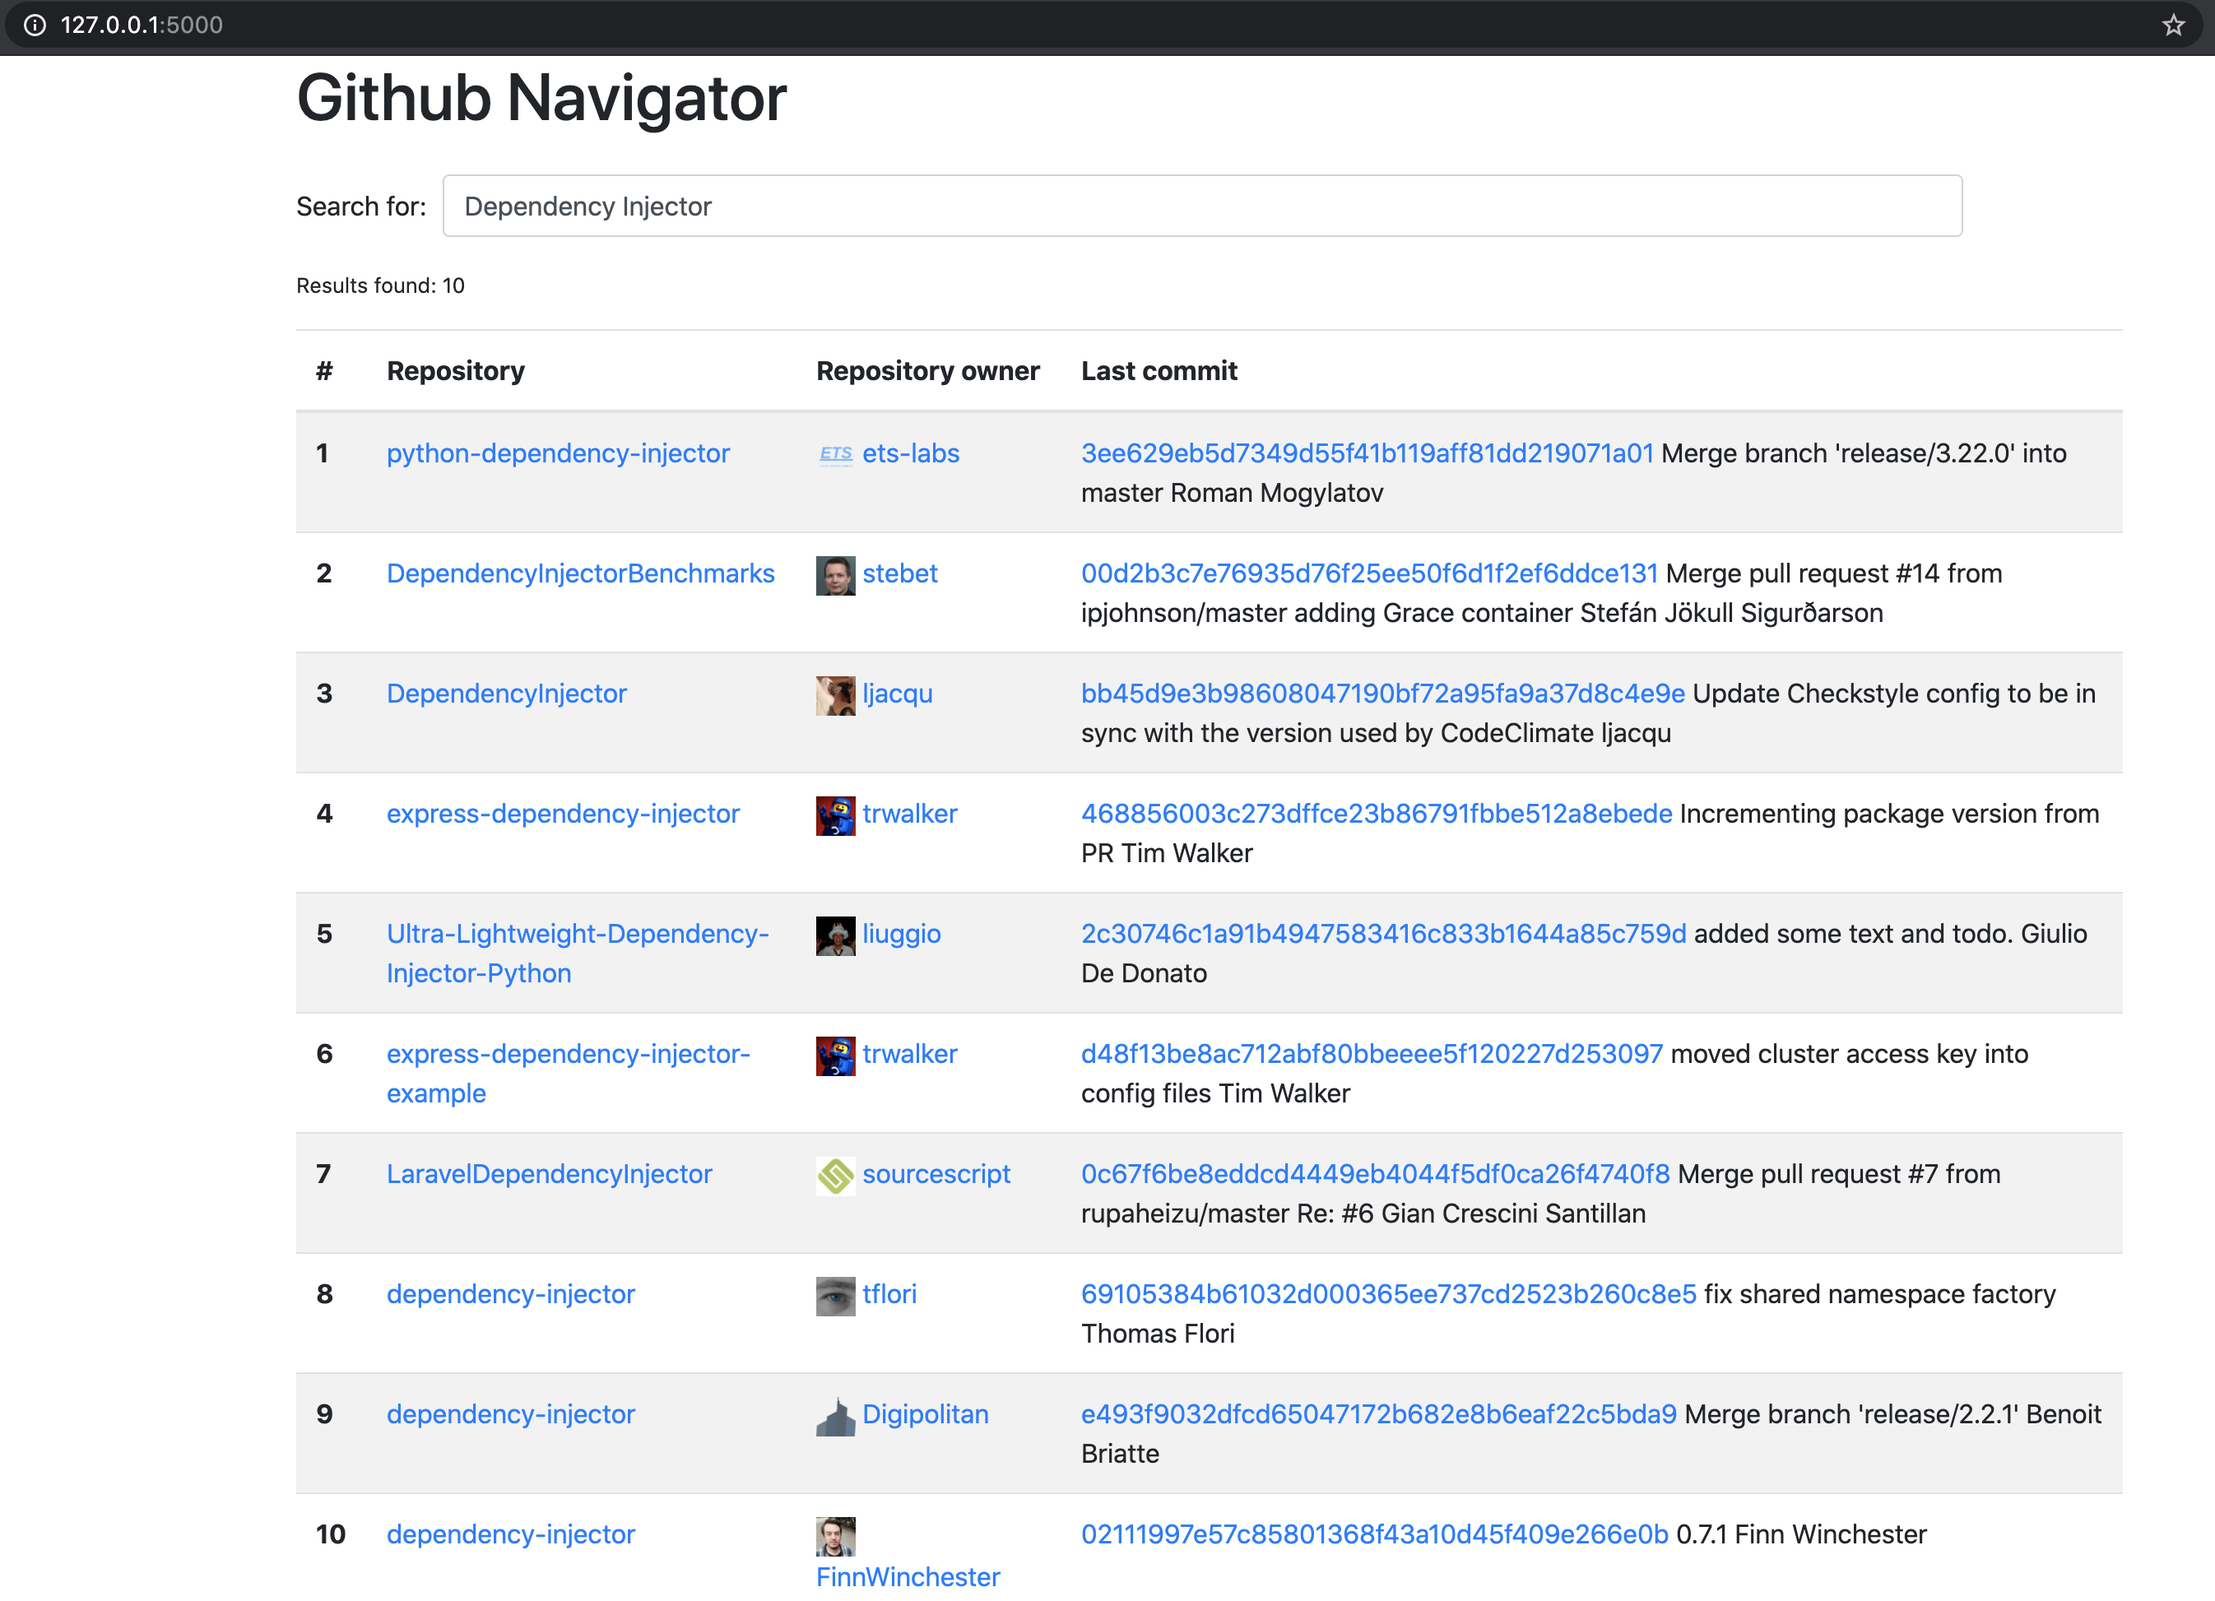
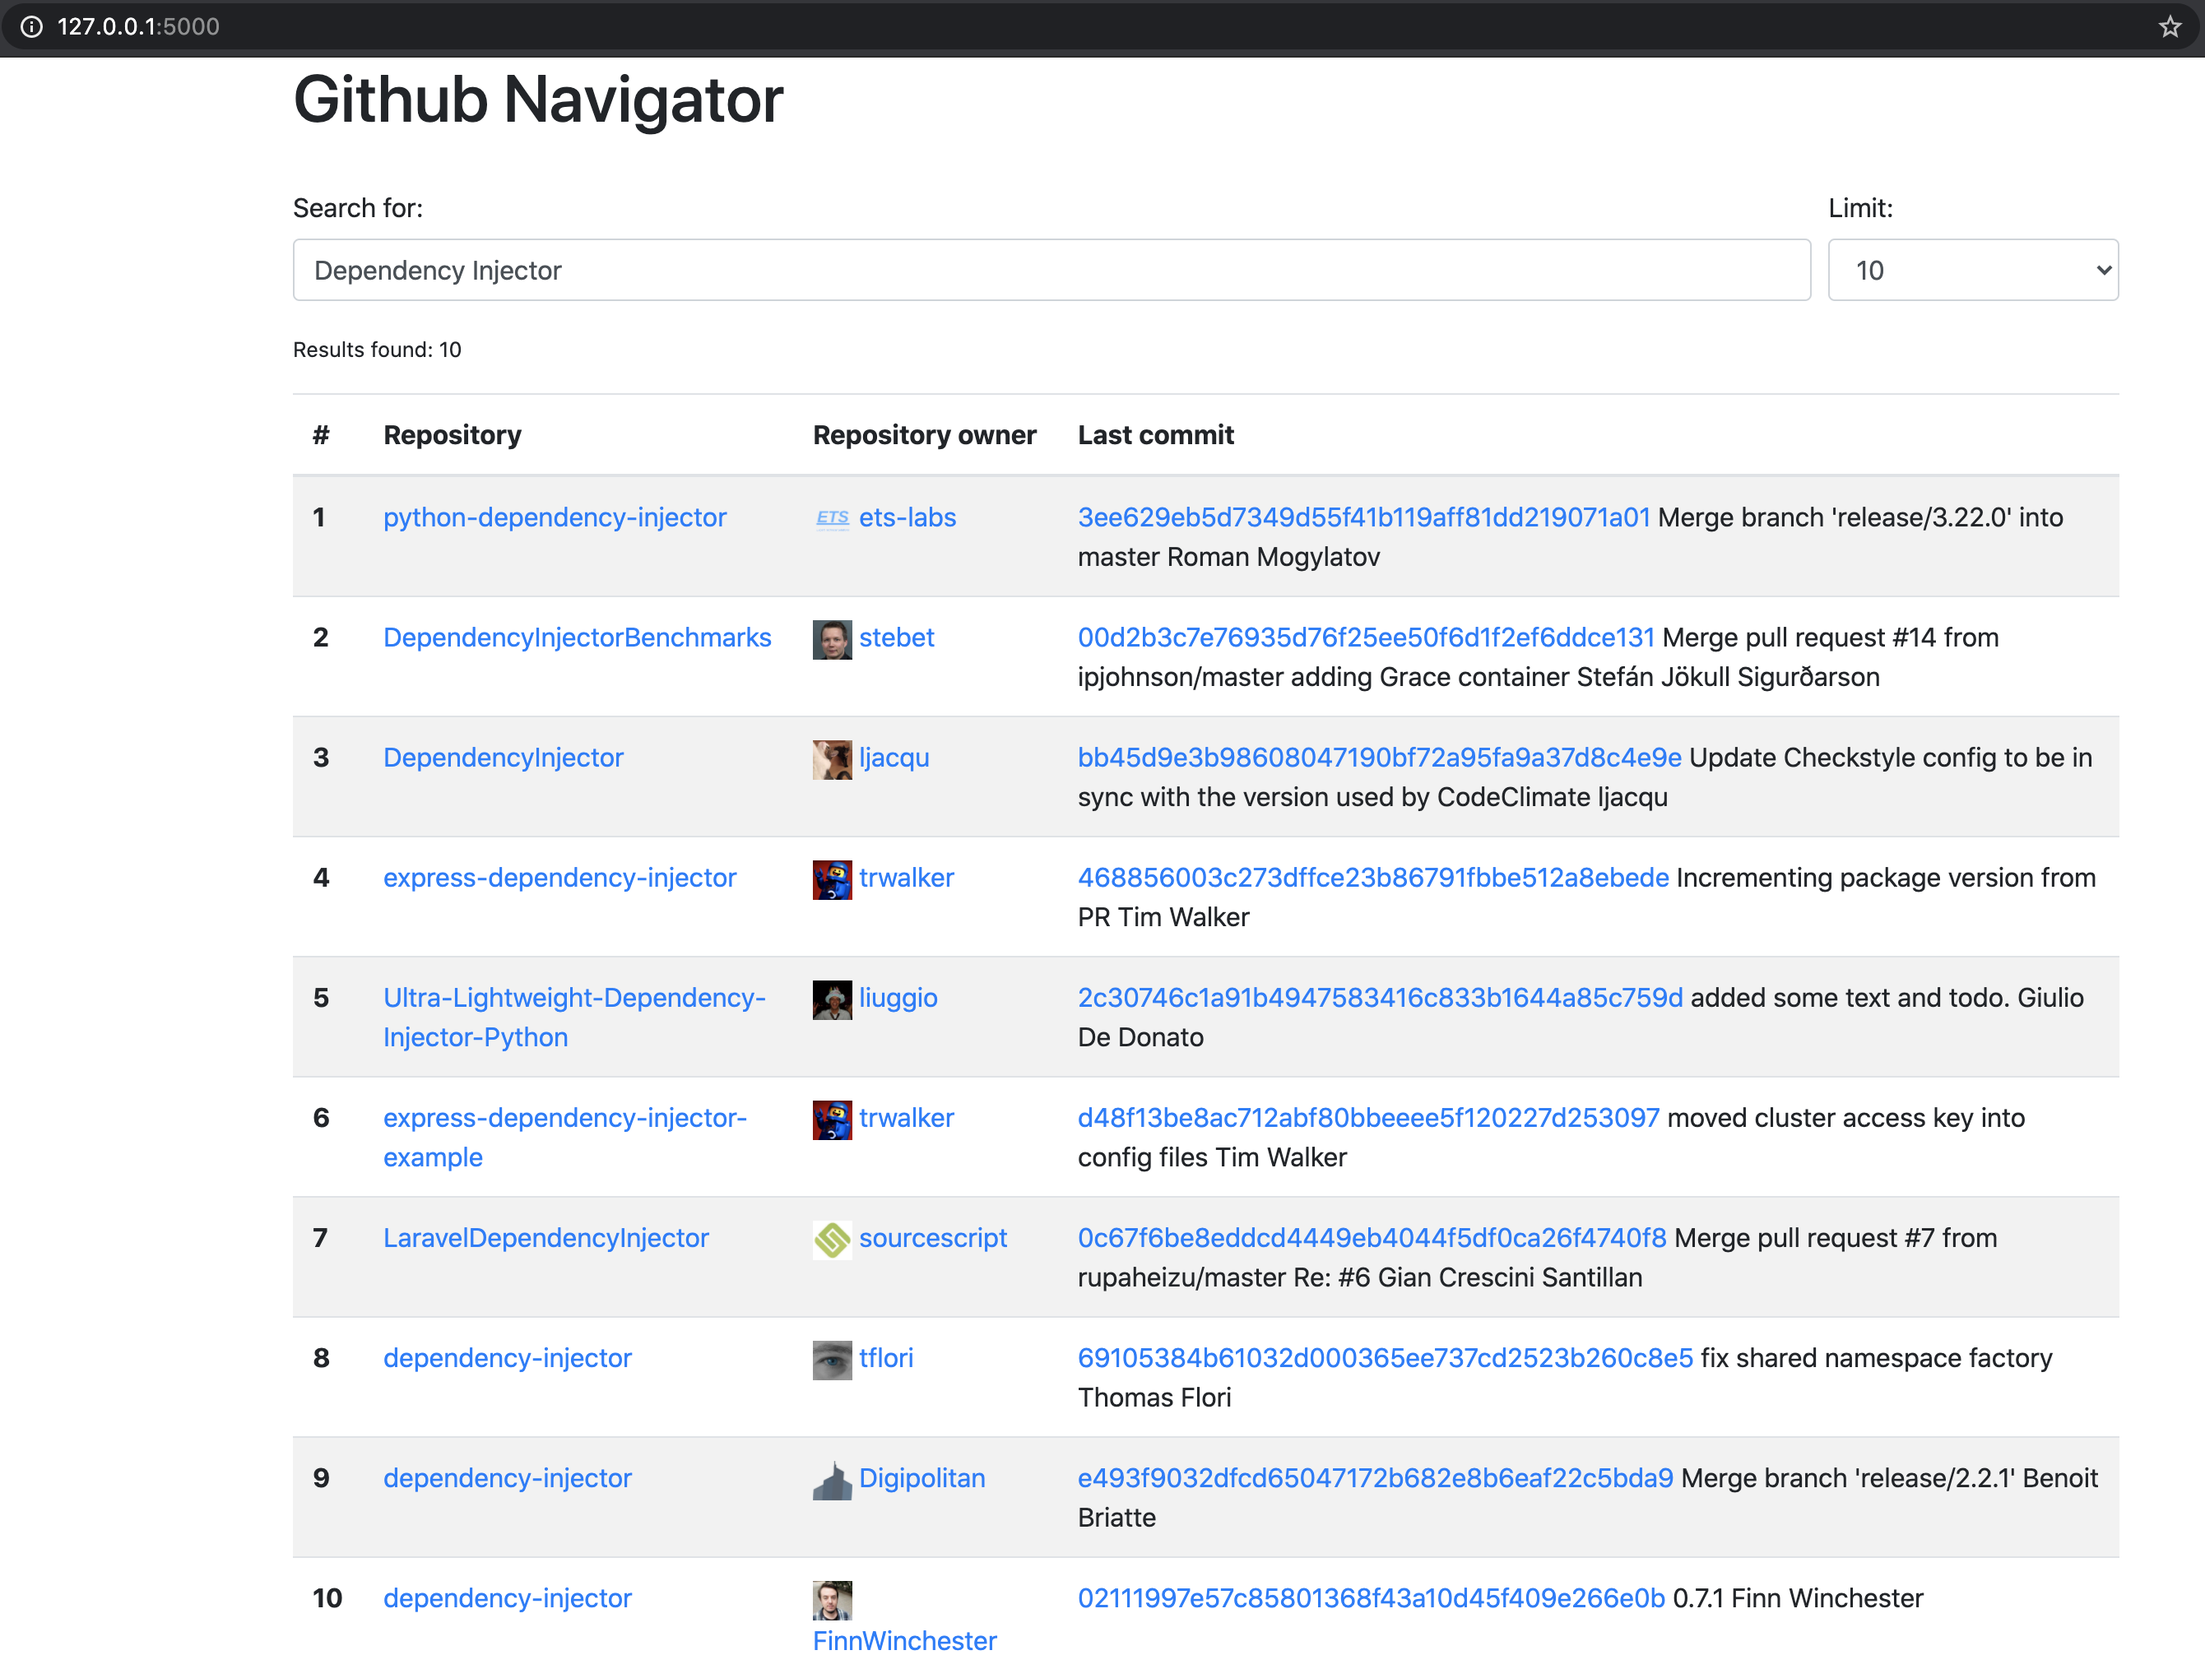
Finish section: Make the search work

diff --git a/docs/tutorials/flask.rst b/docs/tutorials/flask.rst
@@ -20,11 +20,11 @@ Github Navigator.
 
 How does Github Navigator work?
 
-- User opens a web page that asks to provide a search term.
-- User types the search term and hits Enter.
+- User opens a web page that asks to provide a search query.
+- User types the query and hits Enter.
 - Github Navigator takes that and searches through the Github for matching repositories.
 - When search is done Github Navigator returns user a web page with the result.
-- The results page shows all matching repositories and the provided search term.
+- The results page shows all matching repositories and the provided search query.
 - For any matching repository user sees:
     - the repository name
     - the owner of the repository
@@ -335,15 +335,29 @@ Put next into the ``index.html``:
        <h1 class="mb-4">Github Navigator</h1>
 
        <form>
-         <div class="form-group form-row">
-             <label for="search_term" class="col-form-label">Search for:</label>
-             <div class="col-10">
-                 <input class="form-control" type="text" id="search_term"
-                        placeholder="Type something to search on the GitHub"
-                        name="search_term"
-                        value="{{ search_term if search_term }}">
-             </div>
-         </div>
+           <div class="form-group form-row">
+               <div class="col-10">
+                   <label for="search_query" class="col-form-label">
+                       Search for:
+                   </label>
+                   <input class="form-control" type="text" id="search_query"
+                          placeholder="Type something to search on the GitHub"
+                          name="query"
+                          value="{{ query if query }}">
+               </div>
+               <div class="col">
+                   <label for="search_limit" class="col-form-label">
+                       Limit:
+                   </label>
+                   <select class="form-control" id="search_limit" name="limit">
+                       {% for value in [5, 10, 20] %}
+                       <option {% if value == limit %}selected{% endif %}>
+                           {{ value }}
+                       </option>
+                       {% endfor %}
+                   </select>
+               </div>
+           </div>
        </form>
 
        <p><small>Results found: {{ repositories|length }}</small></p>
@@ -395,12 +409,15 @@ Edit ``views.py``:
 
 
    def index():
-       search_term = request.args.get('search_term', 'Dependency Injector')
+       query = request.args.get('query', 'Dependency Injector')
+       limit = request.args.get('limit', 10, int)
+
        repositories = []
 
        return render_template(
            'index.html',
-           search_term=search_term,
+           query=query,
+           limit=limit,
            repositories=repositories,
        )
 
@@ -631,10 +648,10 @@ and put next into it:
        def __init__(self, github_client: Github):
            self._github_client = github_client
 
-       def search_repositories(self, term, limit):
+       def search_repositories(self, query, limit):
            """Search for repositories and return formatted data."""
            repositories = self._github_client.search_repositories(
-               query=term,
+               query=query,
                **{'in': 'name'},
            )
            return [
@@ -703,15 +720,15 @@ Edit ``containers.py``:
 
        index_view = flask.View(views.index)
 
-Make the search
----------------
+Make the search work
+--------------------
 
 Now we are ready to make the search work. Let's use the ``SearchService`` in the ``index`` view.
 
 Edit ``views.py``:
 
 .. code-block:: python
-   :emphasize-lines: 5,8,10
+   :emphasize-lines: 5,8,12
 
    """Views module."""
 
@@ -721,12 +738,15 @@ Edit ``views.py``:
 
 
    def index(search_service: SearchService):
-       search_term = request.args.get('search_term', 'Dependency Injector')
-       repositories = search_service.search_repositories(search_term, limit=10)
+       query = request.args.get('query', 'Dependency Injector')
+       limit = request.args.get('limit', 10, int)
+
+       repositories = search_service.search_repositories(query, limit)
 
        return render_template(
            'index.html',
-           search_term=search_term,
+           query=query,
+           limit=limit,
            repositories=repositories,
        )
 
@@ -778,6 +798,107 @@ Make sure the app is running or use ``flask run`` and open ``http://127.0.0.1:50
 You should see:
 
 .. image::  flask_images/screen_02.png
+
+Make some refactoring
+---------------------
+
+Our ``index`` view has two hardcoded config values:
+
+- Default search term
+- Limit of the results
+
+Let's make some refactoring. We will move these values to the config.
+
+Edit ``views.py``:
+
+.. code-block:: python
+   :emphasize-lines: 8-14
+
+   """Views module."""
+
+   from flask import request, render_template
+
+   from .services import SearchService
+
+
+   def index(
+           search_service: SearchService,
+           default_query: str,
+           default_limit: int,
+   ):
+       query = request.args.get('query', default_query)
+       limit = request.args.get('limit', default_limit, int)
+
+       repositories = search_service.search_repositories(query, limit)
+
+       return render_template(
+           'index.html',
+           query=query,
+           limit=limit,
+           repositories=repositories,
+       )
+
+Now we need to inject these values. Let's update the container.
+
+Edit ``containers.py``:
+
+.. code-block:: python
+   :emphasize-lines: 35-36
+
+   """Application containers module."""
+
+   from dependency_injector import containers, providers
+   from dependency_injector.ext import flask
+   from flask import Flask
+   from flask_bootstrap import Bootstrap
+   from github import Github
+
+   from . import services, views
+
+
+   class ApplicationContainer(containers.DeclarativeContainer):
+       """Application container."""
+
+       app = flask.Application(Flask, __name__)
+
+       bootstrap = flask.Extension(Bootstrap)
+
+       config = providers.Configuration()
+
+       github_client = providers.Factory(
+           Github,
+           login_or_token=config.github.auth_token,
+           timeout=config.github.request_timeout,
+       )
+
+       search_service = providers.Factory(
+           services.SearchService,
+           github_client=github_client,
+       )
+
+       index_view = flask.View(
+           views.index,
+           search_service=search_service,
+           default_query=config.search.default_query,
+           default_limit=config.search.default_limit,
+       )
+
+Finally let's update the config.
+
+Edit ``config.yml``:
+
+.. code-block::
+   :emphasize-lines: 3-5
+
+   github:
+     request_timeout: 10
+   search:
+     default_query: "Dependency Injector"
+     default_limit: 10
+
+That's it.
+
+The refactoring is done. We've made it cleaner.
 
 Tests
 -----
